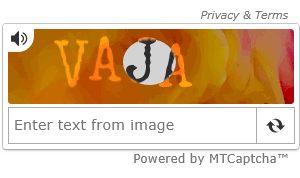
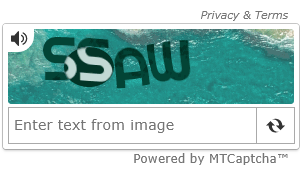
novos captchas locais

diff --git a/templates/text_captcha.html b/templates/text_captcha.html
@@ -4,7 +4,7 @@
   <meta charset="UTF-8">
   <meta name="viewport" content="width=device-width, initial-scale=1.0">
   <meta name="captcha-variant" content='{{ variant_json }}'>
-  <title>CAPTCHA de Texto — Laboratório Local</title>
+  <title>{{ captcha_title }} — Laboratório Local</title>
   <style>
     body { font-family: system-ui, sans-serif; max-width: 480px; margin: 2rem auto; padding: 0 1rem; }
     h1 { font-size: 1.25rem; }
@@ -19,7 +19,7 @@
   </style>
 </head>
 <body>
-  <h1>CAPTCHA de Texto — Laboratório Local</h1>
+  <h1>{{ captcha_title }} — Laboratório Local</h1>
   <p class="params">Parâmetros: {{ variant_display }}</p>
   <form id="captcha-form" method="post" action="/api/verify">
     <img id="captcha-image" data-testid="captcha-image" src="/captcha-image.png" alt="">

diff --git a/main.py b/main.py
@@ -96,7 +96,9 @@ def audio_test(file_path='files/audio.mp3', provider='gemini', model=None):
         log_result(False, "audio", details=str(e))
         return False
 
-def complicated_text_test(driver, provider='openai', model=None):
+def complicated_text_test(driver, provider='openai', model=None, target='2captcha', url=None):
+    if target == 'local':
+        return complicated_text_test_local(driver, provider, model, url or 'http://127.0.0.1:5000/complicated_text')
     """
     Solves a single "Complicated Text" captcha instance, trying up to 3 times.
     The benchmark is successful if any attempt passes.
@@ -208,8 +210,8 @@ def _read_variant_from_page(driver):
         return {}
 
 
-def text_test_local(driver, provider='gemini', model=None, url='http://127.0.0.1:5000/text'):
-    """Resolve CAPTCHA de texto do servidor Flask local."""
+def _local_text_solver(driver, captcha_type, provider, model, url):
+    """Resolve qualquer CAPTCHA de texto (simples ou distorcido) do servidor Flask local."""
     driver.get(url)
     captcha_image = WebDriverWait(driver, 10).until(
         EC.presence_of_element_located((By.ID, "captcha-image"))
@@ -222,7 +224,7 @@ def text_test_local(driver, provider='gemini', model=None, url='http://127.0.0.1
     time.sleep(1)
     screenshot_paths = []
     try:
-        captcha_screenshot_path = 'screenshots/text_captcha_local_1.png'
+        captcha_screenshot_path = f'screenshots/{captcha_type}_local_1.png'
         captcha_image.screenshot(captcha_screenshot_path)
         screenshot_paths.append(captcha_screenshot_path)
 
@@ -260,35 +262,43 @@ def text_test_local(driver, provider='gemini', model=None, url='http://127.0.0.1
         }
 
         if success:
-            print("Captcha local passed successfully!")
-            final_success_path = f"screenshots/final_success_text_local_{datetime.now().strftime('%H%M%S')}.png"
+            print(f"{captcha_type} local passed successfully!")
+            final_success_path = f"screenshots/final_success_{captcha_type}_local_{datetime.now().strftime('%H%M%S')}.png"
             driver.save_screenshot(final_success_path)
             screenshot_paths.append(final_success_path)
-            create_result_gif(screenshot_paths, output_folder=f"successful_solves/text_local_{provider}", prefix="success")
-            log_result(True, "text", details=log_details)
+            create_result_gif(screenshot_paths, output_folder=f"successful_solves/{captcha_type}_local_{provider}", prefix="success")
+            log_result(True, captcha_type, details=log_details)
             return 1
 
-        print("Captcha local failed.")
-        final_failure_path = f"screenshots/final_failure_text_local_{datetime.now().strftime('%H%M%S')}.png"
+        print(f"{captcha_type} local failed.")
+        final_failure_path = f"screenshots/final_failure_{captcha_type}_local_{datetime.now().strftime('%H%M%S')}.png"
         try:
             driver.save_screenshot(final_failure_path)
             screenshot_paths.append(final_failure_path)
         except Exception:
             pass
-        create_result_gif(screenshot_paths, output_folder=f"failed_solves/text_local_{provider}", prefix="failure")
-        log_result(False, "text", details=log_details)
+        create_result_gif(screenshot_paths, output_folder=f"failed_solves/{captcha_type}_local_{provider}", prefix="failure")
+        log_result(False, captcha_type, details=log_details)
         return 0
     except Exception as e:
         print(f"Local captcha failed... Error: {e}")
-        final_failure_path = f"screenshots/final_failure_text_local_{datetime.now().strftime('%H%M%S')}.png"
+        final_failure_path = f"screenshots/final_failure_{captcha_type}_local_{datetime.now().strftime('%H%M%S')}.png"
         try:
             driver.save_screenshot(final_failure_path)
             screenshot_paths.append(final_failure_path)
         except Exception:
             pass
-        create_result_gif(screenshot_paths, output_folder=f"failed_solves/text_local_{provider}", prefix="failure")
-        log_result(False, "text", details={"target": "local", "url": url, "error": str(e)})
+        create_result_gif(screenshot_paths, output_folder=f"failed_solves/{captcha_type}_local_{provider}", prefix="failure")
+        log_result(False, captcha_type, details={"target": "local", "url": url, "error": str(e)})
         return 0
+
+
+def text_test_local(driver, provider='gemini', model=None, url='http://127.0.0.1:5000/text'):
+    return _local_text_solver(driver, 'text', provider, model, url)
+
+
+def complicated_text_test_local(driver, provider='gemini', model=None, url='http://127.0.0.1:5000/complicated_text'):
+    return _local_text_solver(driver, 'complicated_text', provider, model, url)
 
 
 def text_test(driver, provider='openai', model=None, target='2captcha', url=None):
@@ -536,13 +546,9 @@ def main():
     parser.add_argument('--explain', action='store_true', help="Documenta o raciocínio da IA (2a chamada à API + relatório Markdown)")
     parser.add_argument('--target', choices=['2captcha', 'local'], default='2captcha',
                         help="2captcha=demo online (padrão); local=servidor Flask")
-    parser.add_argument('--url', type=str, default='http://127.0.0.1:5000/text',
+    parser.add_argument('--url', type=str, default=None,
                         help="URL do CAPTCHA local (com query params de variante)")
     args = parser.parse_args()
-
-    if args.target == 'local' and args.captcha_type != 'text':
-        print("Erro: --target local só suporta captcha_type=text no momento.")
-        sys.exit(1)
 
     os.makedirs('screenshots', exist_ok=True)
 
@@ -563,7 +569,7 @@ def main():
                     result = text_test(driver, args.provider, args.model, args.target, args.url)
                     run_success = result == 1
                 elif args.captcha_type == 'complicated_text':
-                    result = complicated_text_test(driver, args.provider, args.model)
+                    result = complicated_text_test(driver, args.provider, args.model, args.target, args.url)
                     run_success = result > 0
                     run_details = f"attempt {result}" if run_success else "All attempts failed"
                 elif args.captcha_type == 'recaptcha_v2':

diff --git a/captcha_generators/text_captcha.py b/captcha_generators/text_captcha.py
@@ -25,23 +25,55 @@ DEFAULT_VARIANT = {
     "bg_color": "#f0f0f0",
     "fg_color": "#1a1a1a",
     "wave": 0,
+    "occlusion": 0,
 }
 
+# Preset difícil para complicated_text: mais ruído, rotação, sobreposição, linhas de oclusão
+COMPLICATED_DEFAULT_VARIANT = {
+    "noise": 3,
+    "rotation": 25,
+    "overlap": 1,
+    "length": 6,
+    "font_size": 36,
+    "char_set": "mixed_case",
+    "bg_color": "#e8e8e8",
+    "fg_color": "#2a2a2a",
+    "wave": 2,
+    "occlusion": 2,
+}
 
-def parse_variant(params):
-    """Mescla query params com defaults e normaliza tipos."""
-    variant = dict(DEFAULT_VARIANT)
-    for key in DEFAULT_VARIANT:
+INT_KEYS = ("noise", "overlap", "length", "font_size", "wave", "rotation", "occlusion")
+
+
+def _apply_params(base, params):
+    variant = dict(base)
+    for key in base:
         if key not in params or params[key] in (None, ""):
             continue
         raw = params[key]
-        if key in ("noise", "overlap", "length", "font_size", "wave", "rotation"):
-            variant[key] = int(raw)
-        else:
-            variant[key] = raw
+        variant[key] = int(raw) if key in INT_KEYS else raw
+    return variant
+
+
+def parse_variant(params):
+    """Mescla query params com defaults simples e normaliza tipos."""
+    variant = _apply_params(DEFAULT_VARIANT, params)
     if variant["char_set"] not in CHAR_SETS:
         variant["char_set"] = "alnum"
     return variant
+
+
+def parse_variant_complicated(params):
+    """Mescla query params com defaults difíceis e normaliza tipos."""
+    variant = _apply_params(COMPLICATED_DEFAULT_VARIANT, params)
+    if variant["char_set"] not in CHAR_SETS:
+        variant["char_set"] = "mixed_case"
+    return variant
+
+
+def check(answer, user_answer):
+    """Verifica resposta case-insensitive."""
+    return (user_answer or "").strip().upper() == (answer or "").strip().upper()
 
 
 def _get_font(size):
@@ -94,6 +126,10 @@ def generate_text_captcha(variant, seed=None):
         draw.line([(x1, y1), (x2, y2)], fill=v["fg_color"], width=1)
     for _ in range(v["noise"] * 15):
         draw.point((rng.randint(0, width - 1), rng.randint(0, height - 1)), fill=v["fg_color"])
+
+    for _ in range(v.get("occlusion", 0)):
+        y = rng.randint(height // 4, 3 * height // 4)
+        draw.line([(0, y), (width, y)], fill=v["fg_color"], width=rng.randint(2, 4))
 
     buf = BytesIO()
     img.save(buf, format="PNG")

diff --git a/captcha_server.py b/captcha_server.py
@@ -13,6 +13,7 @@ from flask import Flask, jsonify, make_response, render_template, request, sessi
 from captcha_generators.text_captcha import (
     generate_text_captcha,
     parse_variant,
+    parse_variant_complicated,
     variant_to_json,
 )
 
@@ -34,16 +35,16 @@ def index():
     )
 
 
-@app.route("/text")
-def text_captcha_page():
+def _render_text_based_captcha(parser_fn, captcha_type, captcha_title):
     seed = request.args.get("seed")
     seed = int(seed) if seed is not None and str(seed).lstrip("-").isdigit() else None
-    variant = parse_variant(request.args.to_dict())
+    variant = parser_fn(request.args.to_dict())
     image_bytes, answer, variant = generate_text_captcha(variant, seed=seed)
 
     token = uuid.uuid4().hex
     _image_cache[token] = image_bytes
     session["image_token"] = token
+    session["captcha_type"] = captcha_type
     session["answer"] = answer
     session["variant"] = variant
     if seed is not None:
@@ -53,9 +54,20 @@ def text_captcha_page():
     variant_display = ", ".join(f"{k}={v}" for k, v in variant.items())
     return render_template(
         "text_captcha.html",
+        captcha_title=captcha_title,
         variant_json=variant_json,
         variant_display=variant_display,
     )
+
+
+@app.route("/text")
+def text_captcha_page():
+    return _render_text_based_captcha(parse_variant, "text", "CAPTCHA de Texto")
+
+
+@app.route("/complicated_text")
+def complicated_text_captcha_page():
+    return _render_text_based_captcha(parse_variant_complicated, "complicated_text", "CAPTCHA de Texto Distorcido")
 
 
 @app.route("/captcha-image.png")

diff --git a/README.md b/README.md
@@ -100,11 +100,17 @@ python captcha_server.py
 
 **Terminal 2** — rodar o bot contra o CAPTCHA local:
 ```bash
-# CAPTCHA padrão (sem distorção)
+# Texto simples (padrão, sem distorção)
 python main.py text --target local --provider gemini --model gemini-2.5-flash
 
-# CAPTCHA com parâmetros customizados (via URL)
+# Texto simples com parâmetros customizados
 python main.py text --target local --url "http://127.0.0.1:5000/text?noise=3&rotation=20&length=6&seed=42" --provider gemini --model gemini-2.5-flash
+
+# Texto distorcido (preset difícil: noise=3, rotation=25, occlusion=2, wave=2)
+python main.py complicated_text --target local --provider gemini --model gemini-2.5-flash
+
+# Texto distorcido com parâmetros customizados
+python main.py complicated_text --target local --url "http://127.0.0.1:5000/complicated_text?noise=5&rotation=35&occlusion=3&seed=42" --provider gemini --model gemini-2.5-flash
 ```
 
 ## Como Funciona
@@ -120,9 +126,9 @@ python main.py text --target local --url "http://127.0.0.1:5000/text?noise=3&rot
 ## Estrutura do Projeto
 
 - `main.py` — Ponto de entrada principal (`--target 2captcha|local`)
-- `captcha_server.py` — Servidor Flask de CAPTCHAs customizados
-- `captcha_generators/text_captcha.py` — Gera imagens de CAPTCHA com parâmetros variáveis
-- `templates/text_captcha.html` — Página HTML com DOM estável para o bot
+- `captcha_server.py` — Servidor Flask de CAPTCHAs customizados (rotas: `/text`, `/complicated_text`)
+- `captcha_generators/text_captcha.py` — Gera imagens de CAPTCHA com parâmetros variáveis; expõe `DEFAULT_VARIANT`, `COMPLICATED_DEFAULT_VARIANT`, `parse_variant`, `parse_variant_complicated`, `check`
+- `templates/text_captcha.html` — Página HTML com DOM estável para o bot (IDs: `captcha-image`, `captcha-input`, `captcha-submit`, `captcha-result`)
 - `run_experiments.py` — Roda bateria de testes automatizados
 - `failure_report.py` — Relatório de taxa de falha por parâmetro
 - `experiments/text_variants.json` — Matriz de variantes para experimentos
@@ -170,30 +176,38 @@ O servidor Flask gera CAPTCHAs de texto com parâmetros controláveis, para desc
 
 Abra no navegador ou passe a URL para o bot. Cada parâmetro na query string altera a dificuldade:
 
-| Parâmetro | Padrão | Descrição |
-|-----------|--------|-----------|
-| `noise` | 0 | Ruído visual (linhas e pontos sobre o texto) |
-| `rotation` | 0 | Rotação máxima por caractere (graus) |
-| `overlap` | 0 | Sobreposição entre caracteres |
-| `length` | 5 | Quantidade de caracteres |
-| `font_size` | 36 | Tamanho da fonte |
-| `char_set` | alnum | `alnum`, `mixed_case` ou `symbols` (O/0/l/1) |
-| `bg_color` | #f0f0f0 | Cor de fundo |
-| `fg_color` | #1a1a1a | Cor do texto |
-| `wave` | 0 | Distorção ondulada vertical |
-| `seed` | aleatório | Fixa a imagem para reprodutibilidade |
+| Parâmetro | Padrão (`text`) | Padrão (`complicated_text`) | Descrição |
+|-----------|--------|-----------|-----------|
+| `noise` | 0 | 3 | Ruído visual (linhas e pontos sobre o texto) |
+| `rotation` | 0 | 25 | Rotação máxima por caractere (graus) |
+| `overlap` | 0 | 1 | Sobreposição entre caracteres |
+| `occlusion` | 0 | 2 | Linhas horizontais cruzando o texto |
+| `wave` | 0 | 2 | Distorção ondulada vertical |
+| `length` | 5 | 6 | Quantidade de caracteres |
+| `font_size` | 36 | 36 | Tamanho da fonte |
+| `char_set` | alnum | mixed_case | `alnum`, `mixed_case` ou `symbols` (O/0/l/1) |
+| `bg_color` | #f0f0f0 | #e8e8e8 | Cor de fundo |
+| `fg_color` | #1a1a1a | #2a2a2a | Cor do texto |
+| `seed` | aleatório | aleatório | Fixa a imagem para reprodutibilidade |
 
 **Exemplos no navegador:**
 ```
+# Texto simples
 http://127.0.0.1:5000/text
 http://127.0.0.1:5000/text?noise=3&rotation=20
 http://127.0.0.1:5000/text?char_set=symbols&length=6&noise=2
 http://127.0.0.1:5000/text?noise=4&rotation=30&overlap=2&seed=42
+
+# Texto distorcido (preset difícil, parâmetros sobrescrevíveis)
+http://127.0.0.1:5000/complicated_text
+http://127.0.0.1:5000/complicated_text?occlusion=3&rotation=35&seed=42
 ```
 
 **Bot resolver o mesmo CAPTCHA:**
 ```bash
 python main.py text --target local --url "http://127.0.0.1:5000/text?noise=4&rotation=30&seed=42" --provider gemini --model gemini-2.5-flash
+
+python main.py complicated_text --target local --url "http://127.0.0.1:5000/complicated_text?occlusion=3&rotation=35&seed=42" --provider gemini --model gemini-2.5-flash
 ```
 
 ### 2. Rodar experimentos em lote
@@ -239,7 +253,7 @@ Edite `experiments/text_variants.json` para adicionar novos sweeps:
 
 ### Compatibilidade
 
-Os CAPTCHAs do **2captcha continuam funcionando** sem nenhuma alteração nos comandos. O modo local (`--target local`) é opcional e, por enquanto, suporta apenas `captcha_type=text`.
+Os CAPTCHAs do **2captcha continuam funcionando** sem nenhuma alteração nos comandos. O modo local (`--target local`) suporta `text` e `complicated_text`.
 
 ## Referências
 
